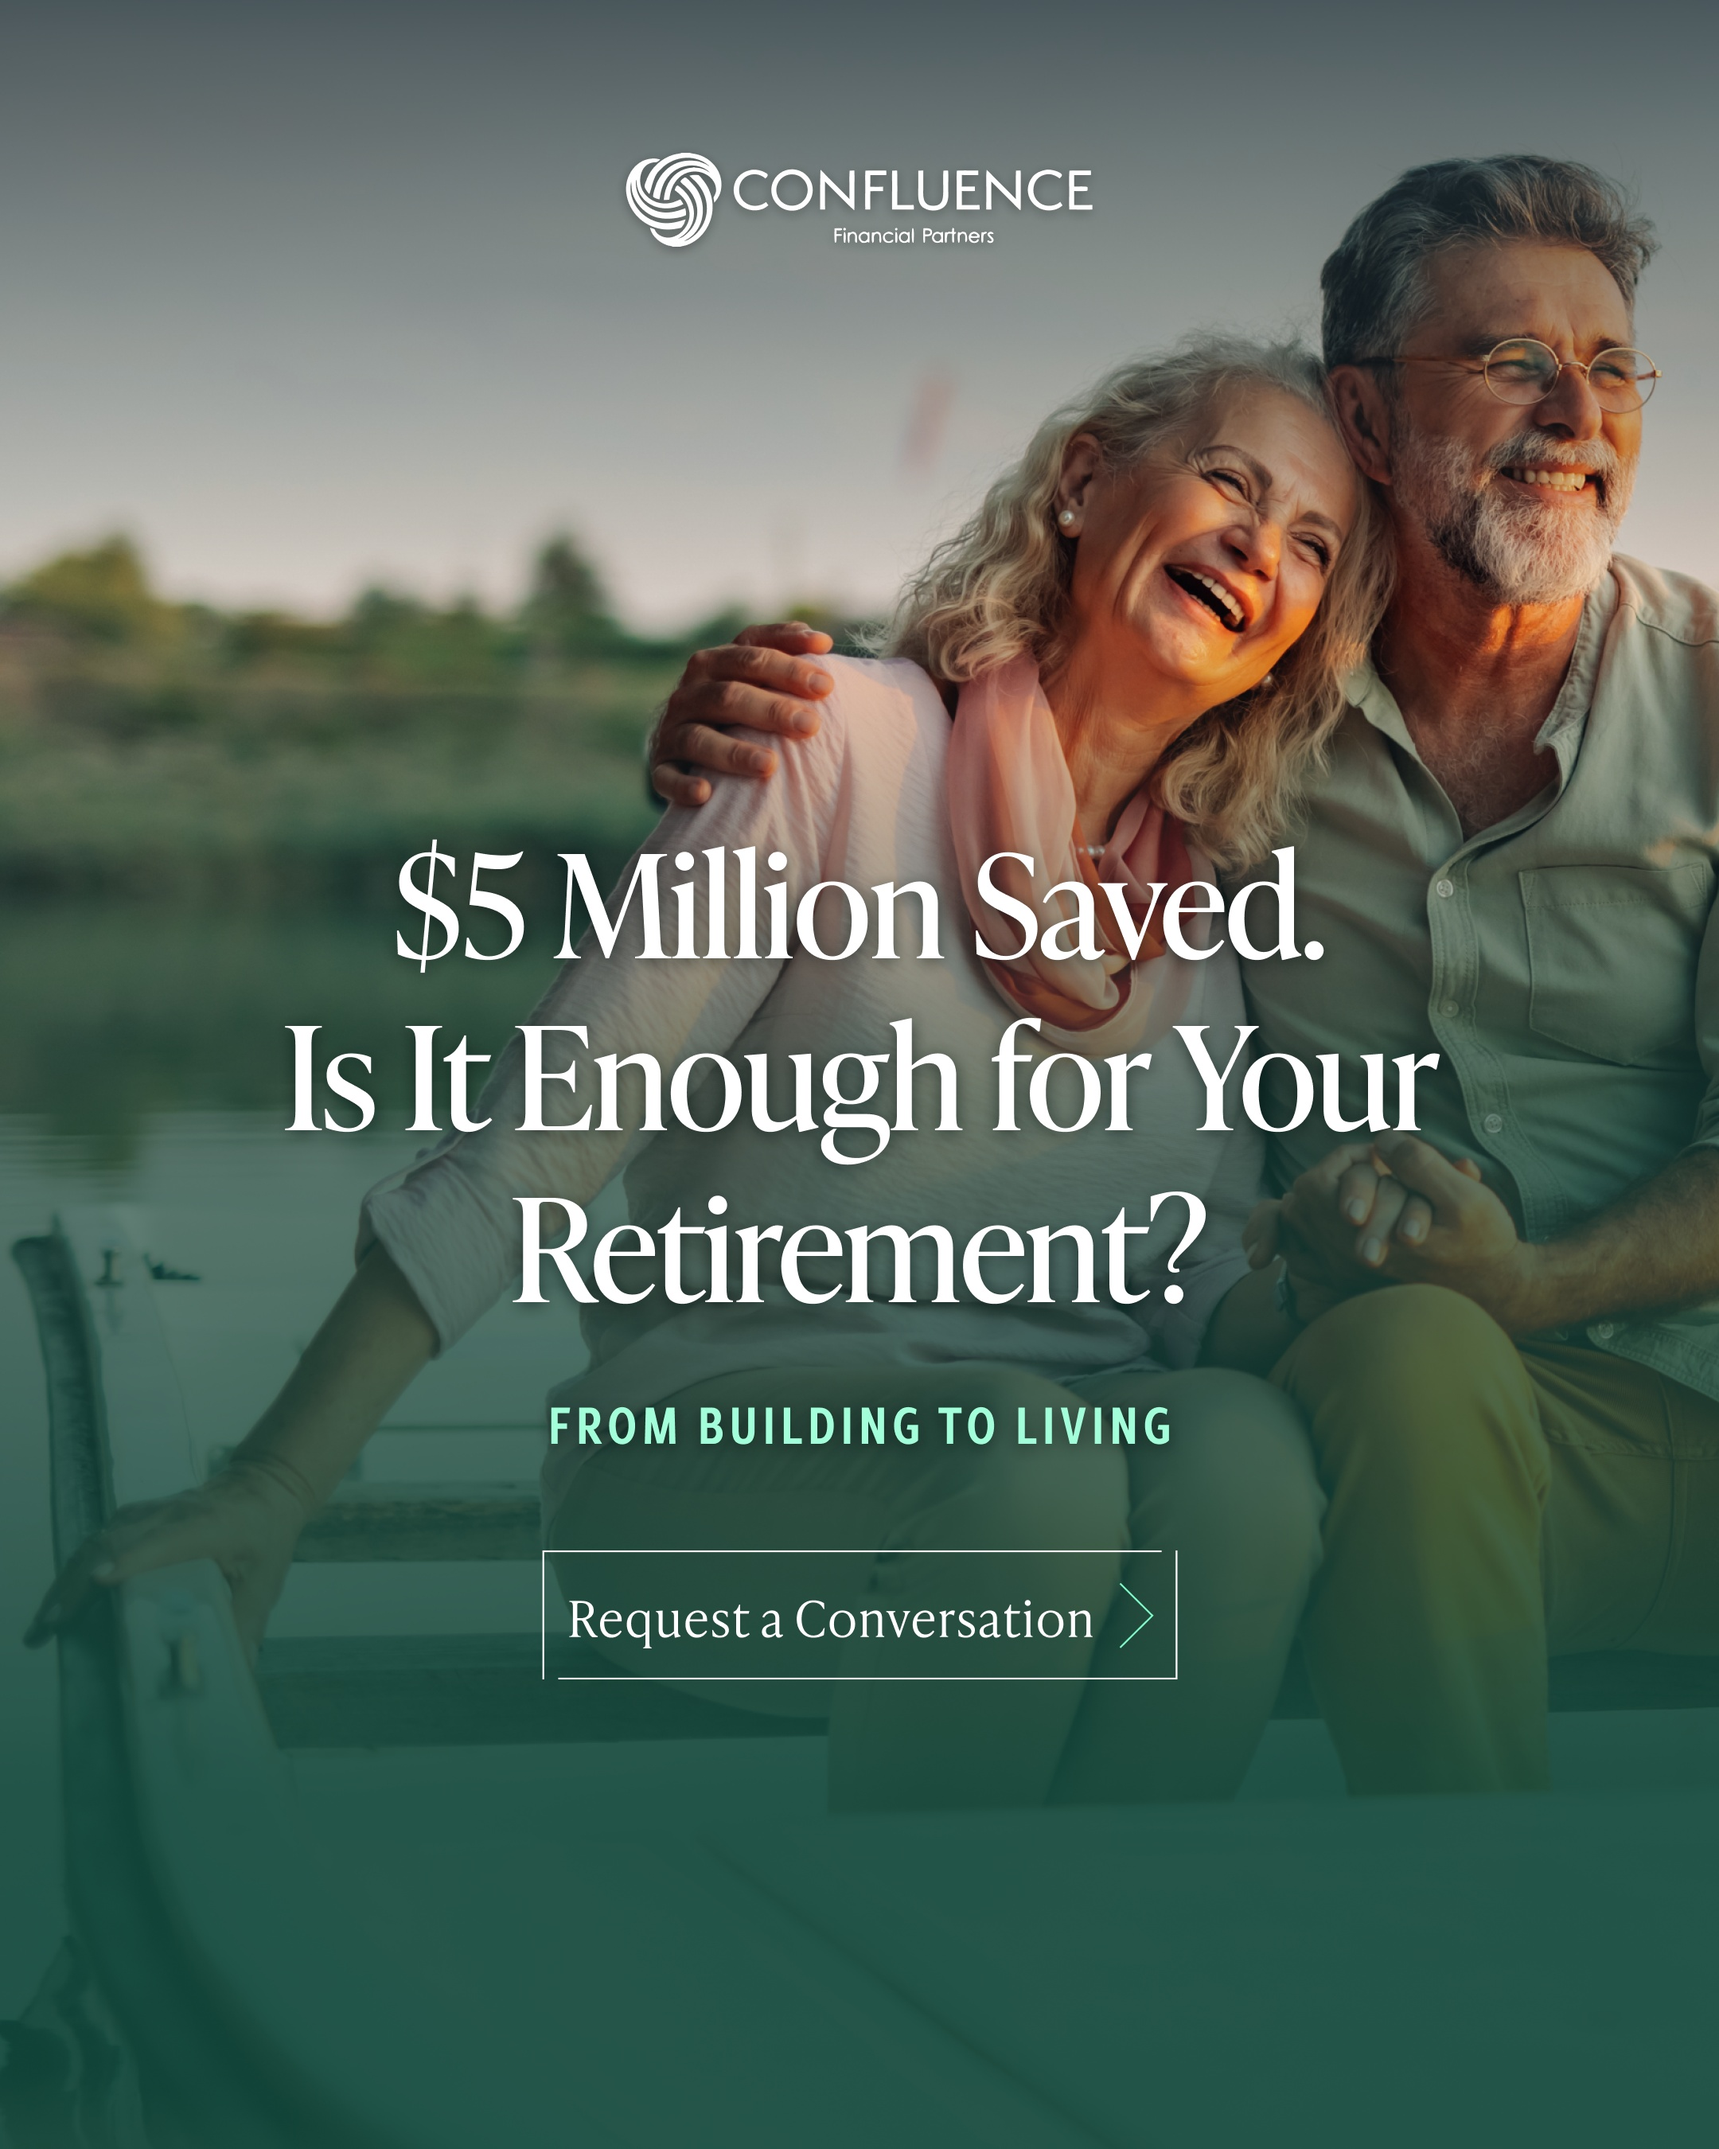
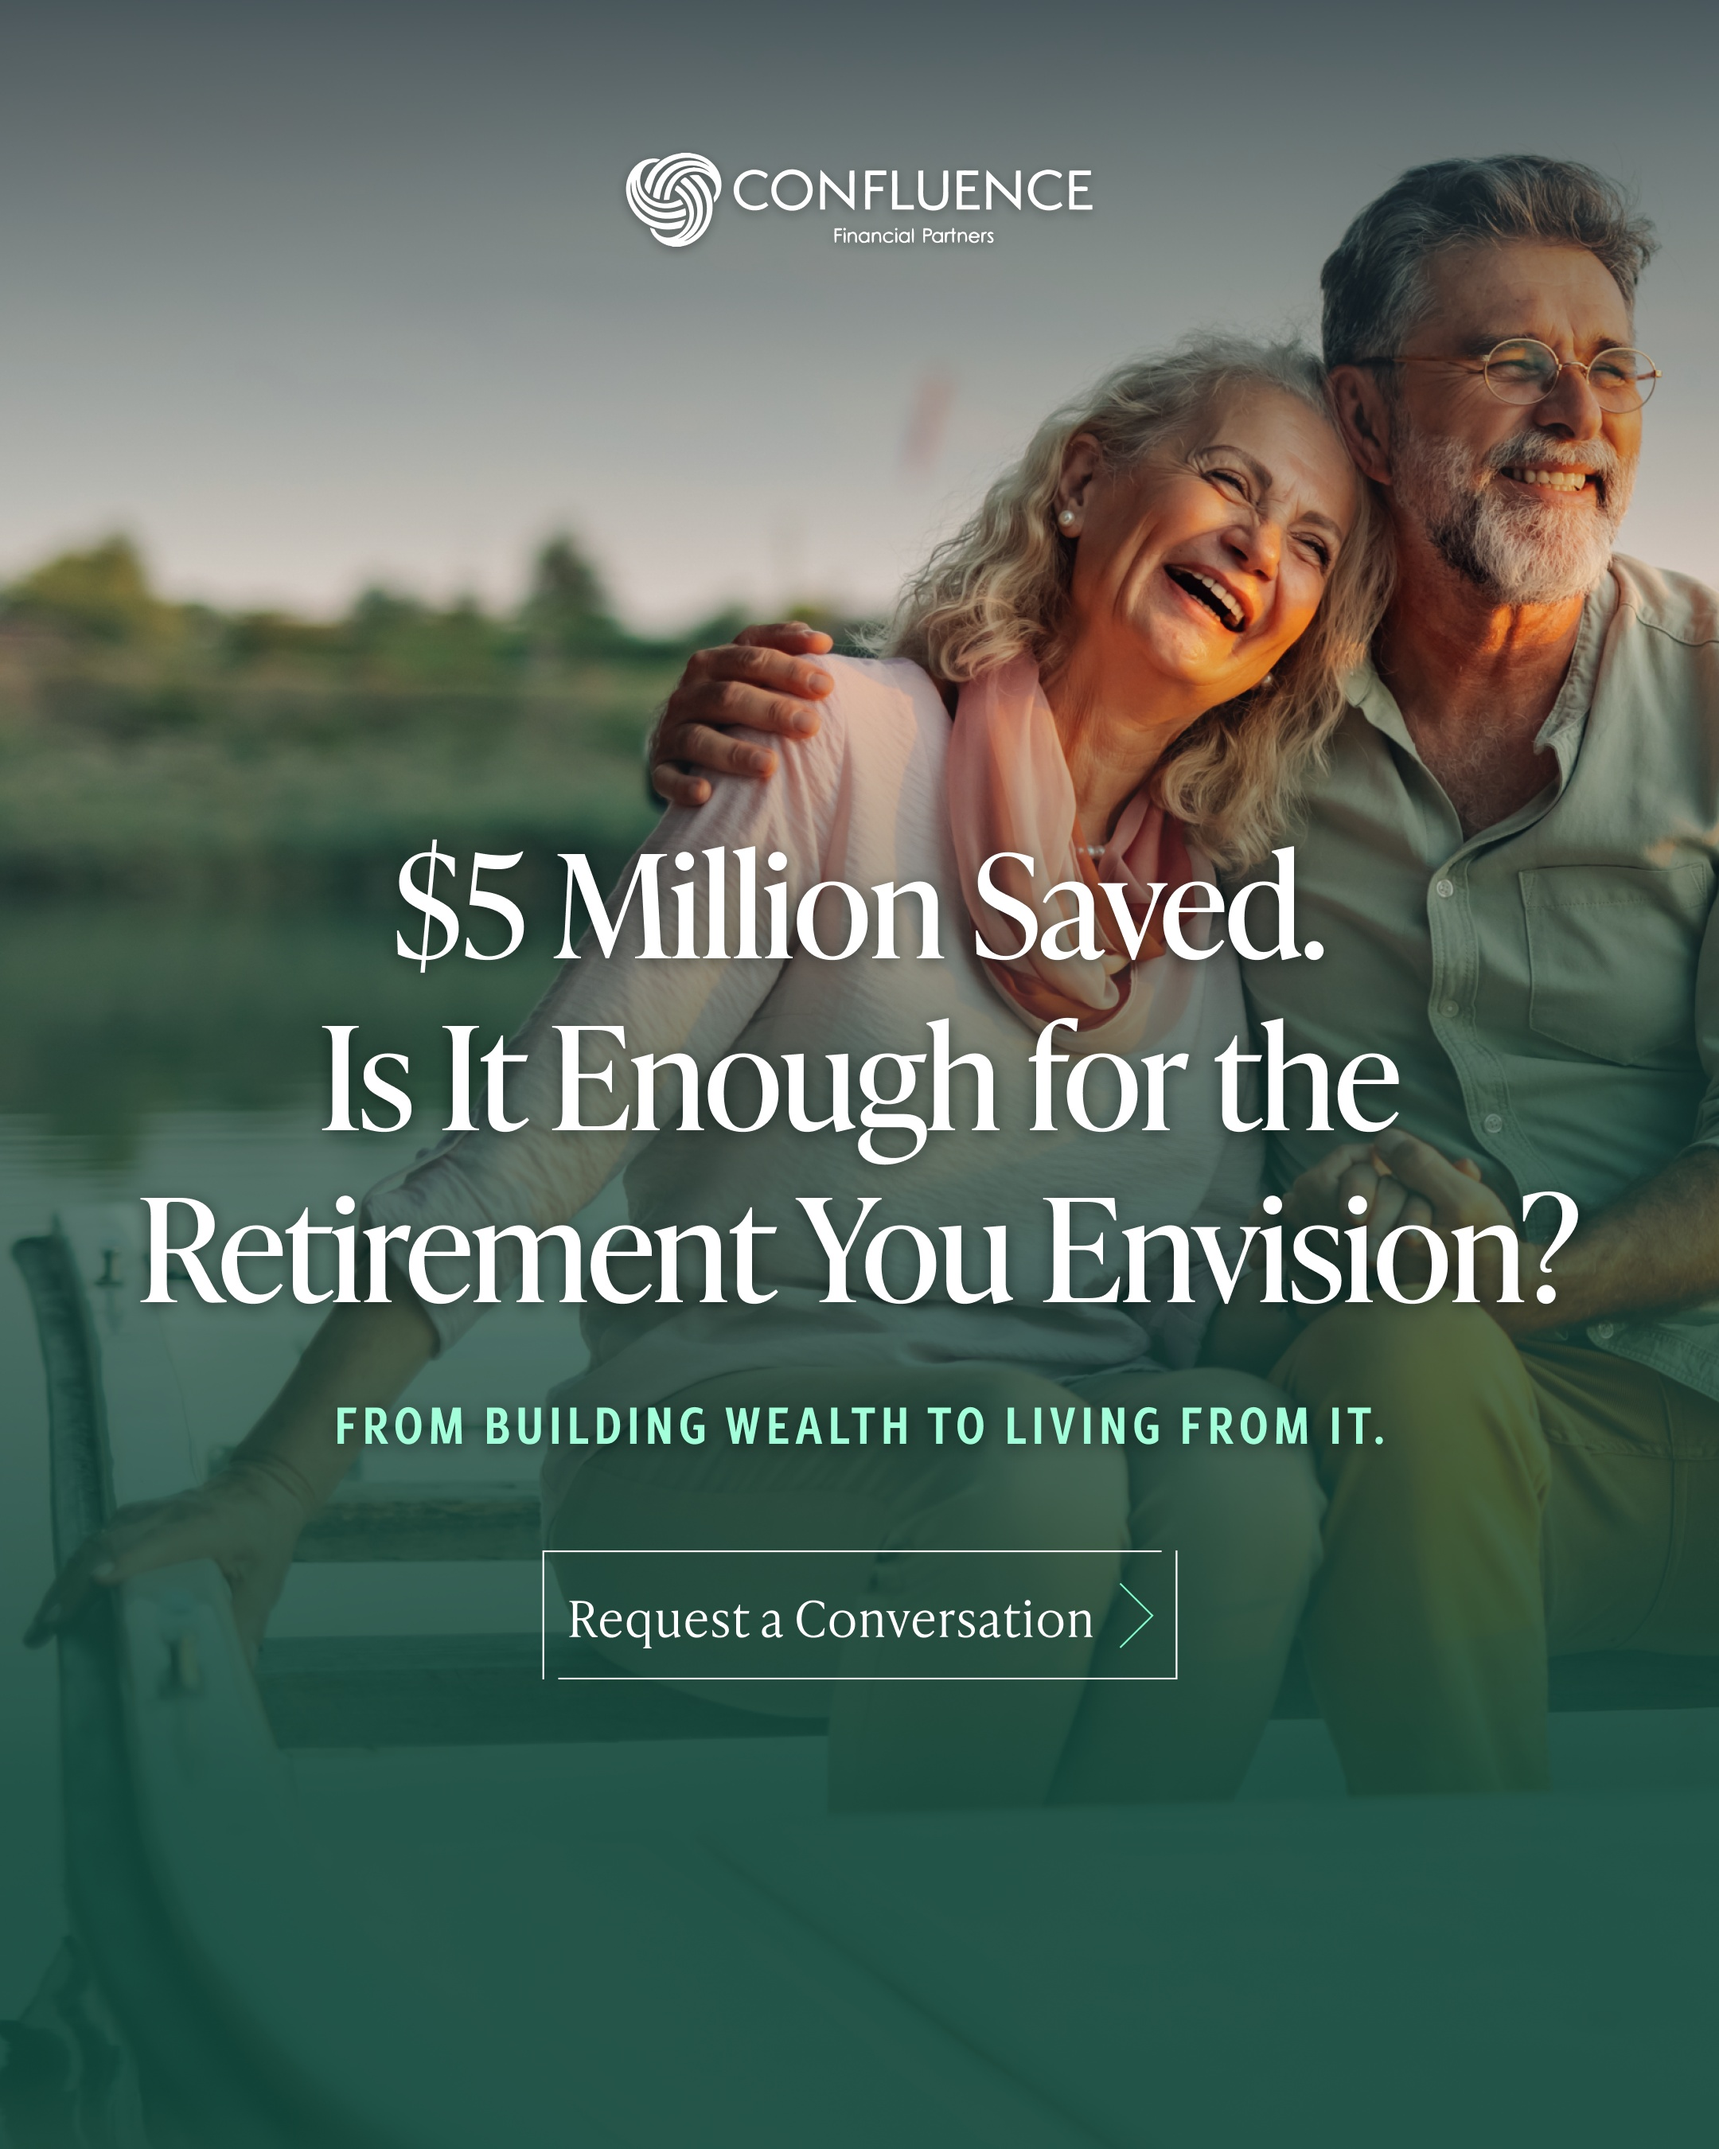
CFP vEdge: Ad 8 (Retirement) new creative + link-bar headline matched to compliance ('...the Retirement You Envision?')

Changed region(s): [[0.062, 0.4667, 0.9306, 0.6222], [0.1861, 0.6533, 0.8065, 0.6844]]

diff --git a/confluence-fp-consultation-vedge/index.html b/confluence-fp-consultation-vedge/index.html
@@ -1205,7 +1205,7 @@ let _activeImageVersion = {};
 let _placementIdx = {};
 let _feedbackCache = {};
 const CAMPAIGN_ID = 'confluence-fp-consultation-vedge';
-const ASSET_V = '1787332007';  // cache-bust token, stamped at bake time
+const ASSET_V = '1787332221';  // cache-bust token, stamped at bake time
 
 // ── Utility ────────────────────────────────────────────────────────────────
 function esc(s) {

diff --git a/confluence-fp-consultation-vedge/IMAGE-TEXT-PUNCHLIST.md b/confluence-fp-consultation-vedge/IMAGE-TEXT-PUNCHLIST.md
@@ -14,7 +14,7 @@ Source: `feedback` table, campaign `confluence-fp-consultation-vedge`.
 | 5 | Proactive | Is Your Financial Advisor Proactive or Reactive? / WHY WAIT TO BE ASKED | headline → **"Is Your Financial Advisor Helping You Prepare for What's Next?"** · sub → **"Financial planning is about more than responding to change."** | ☐ |
 | 6 | Value | Your Advisor Charges a Fee. Do They Deliver the Value? / COST IS ONLY HALF OF IT | headline → **"Your Advisor Charges a Fee. Do You Understand the Services Behind It?"** · eyebrow → **"Cost Is Only Part of the Equation."** | ☐ |
 | 7 | Communication | An Annual Financial Check-In Isn't a Relationship / ADVICE SHOULDN'T GO QUIET | eyebrow → **"Financial planning is an ongoing conversation."** | ✅ placed (output 99) |
-| 8 | Retirement | $5 Million Saved. Is It Enough for Your Retirement? / FROM BUILDING TO LIVING | headline → **"Is It Enough for the Retirement You Envision?"** · eyebrow → **"Retirement happens by design, not by default."** (drops the $ figure) | ☐ |
+| 8 | Retirement | $5 Million Saved. Is It Enough for Your Retirement? / FROM BUILDING TO LIVING | on-image → **"$5 Million Saved. Is It Enough for the Retirement You Envision?"** · eyebrow → **"From building wealth to living from it."** · link-bar headline matched | ✅ placed (output 101) + link headline updated |
 | 9 | Legacy | A Legacy Without a Plan Is Just a Wish. / BY DESIGN, OR BY DEFAULT? | headline → **"A Legacy Takes More Than Assets Alone."** | ☐ |
 | 10 | Generational | Don't Just Build Your Legacy. Prepare Your Heirs. / MORE THAN THE MONEY | headline → **"Don't Just Build Your Legacy. Plan for the Next Generation."** | ☐ |
 | 11 | Life-Stage | Life's Milestones Don't Come With a Financial Playbook. / LIFE RARELY STANDS STILL | (no comment) | ✓ |
